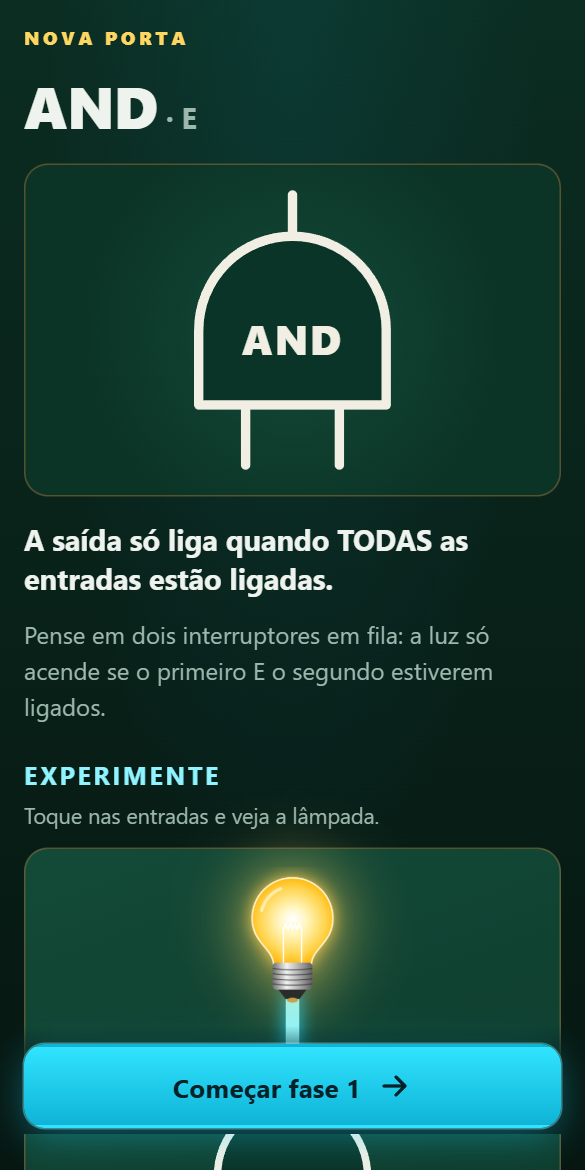
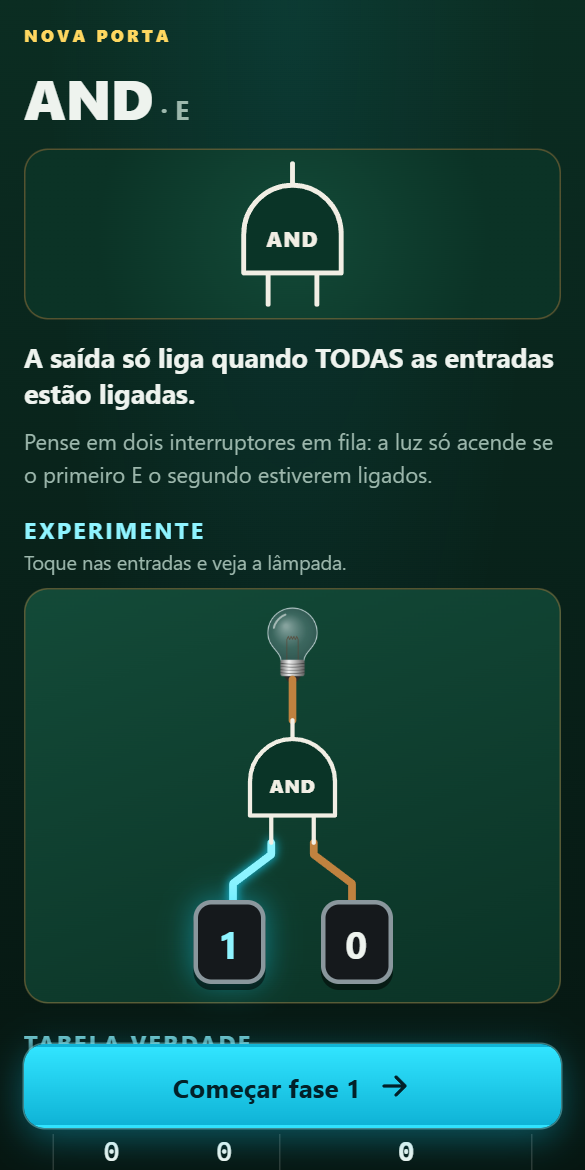
Documenta o modo Expert no README e atualiza as capturas
- Nova seção "Modo Expert": como liberar, como se joga, regras e o
  motivo de cada uma, com capturas do aviso de liberação e de uma vida
  queimada.
- Captura da introdução refeita com o novo tamanho; seção de arte e sons
  atualizada para os MP3 já incluídos.

diff --git a/README.md b/README.md
@@ -10,6 +10,7 @@ Um jogo de navegador gratuito que ensina portas lógicas para quem está começa
 
 ![Deploy](https://github.com/tclaro/logicGates/actions/workflows/deploy.yml/badge.svg)
 ![Fases](https://img.shields.io/badge/fases-36-18d8ff)
+![Modos](https://img.shields.io/badge/modos-normal%20%C2%B7%20Expert-ff9a3c)
 ![Portas](https://img.shields.io/badge/portas-AND%20%C2%B7%20OR%20%C2%B7%20NOT%20%C2%B7%20NAND%20%C2%B7%20NOR%20%C2%B7%20XOR%20%C2%B7%20XNOR-ffd760)
 ![Idioma](https://img.shields.io/badge/idioma-pt--BR-0c4031)
 
@@ -29,7 +30,8 @@ O jogo foi pensado para:
 
 - **Iniciantes de qualquer idade:** de crianças curiosas a estudantes do primeiro semestre de computação.
 - **Aula e estudo individual:** o professor pode projetar o jogo em sala; o aluno pode jogar sozinho no celular.
-- **Aprender sem medo de errar:** não há pontuação, tempo nem vidas. Errar é só mudar uma chave de volta.
+- **Aprender sem medo de errar:** no modo normal não há pontuação, tempo nem vidas. Errar é só mudar uma chave de volta.
+- **Desafiar quem já aprendeu:** o [modo Expert](#-modo-expert) esconde a energia e cobra que o aluno preveja o resultado antes de testar.
 
 ### O que o aluno aprende
 
@@ -40,14 +42,14 @@ O jogo foi pensado para:
 | Raciocinar sobre circuitos com várias portas encadeadas | As fases crescem de 1 para 11 portas, com até 5 níveis de profundidade |
 | Ler as notações usadas em matemática e programação | Cada porta é apresentada também como `A ∧ B`, `A && B`, `¬A`, `A ⊕ B`, `A ^ B`… |
 | Pensar "de trás para frente", partindo do resultado desejado | Para acender a lâmpada, é preciso descobrir o que cada porta precisa receber |
+| Simular um circuito de cabeça, sem tentativa e erro | No modo Expert a energia fica escondida e cada palpite errado custa uma vida |
 
 ## 🧭 Como funciona
 
 1. **A lâmpada começa apagada.** O objetivo de toda fase é acendê-la.
 2. **O aluno alterna as chaves** na parte de baixo da tela entre `0` e `1`. Nem todas começam desligadas: às vezes é preciso desligar uma chave para a luz acender.
 3. **A energia corre pelas trilhas** da placa. Cada porta só reage quando o sinal chega nela, e assim o aluno vê o caminho que a informação percorre.
-4. **Modo Expert:** depois de concluir a fase 10, o aluno pode jogar sem ver a energia. Ele monta as chaves, toca em **Ativar** e só então a energia corre. Cada erro queima uma das 3 lâmpadas de vida; perdendo as 3, volta ao início do capítulo. As fases seguem em sequência e as vidas se renovam a cada fase vencida.
-5. **Antes de cada porta nova**, uma tela apresenta o símbolo, uma analogia do dia a dia, uma mini demonstração interativa, a tabela verdade e as outras formas de escrever a porta.
+4. **Antes de cada porta nova**, uma tela apresenta o símbolo, uma analogia do dia a dia, uma mini demonstração interativa, a tabela verdade e as outras formas de escrever a porta.
 
 <div align="center">
 
@@ -56,6 +58,41 @@ O jogo foi pensado para:
 | <img src="docs/screenshots/intro.png" width="240" alt="Tela de introdução da porta AND"> | <img src="docs/screenshots/tabela-verdade.png" width="240" alt="Balão com a tabela verdade da porta NAND"> | <img src="docs/screenshots/vitoria.png" width="240" alt="Lâmpada acesa e tela de vitória"> |
 
 </div>
+
+## ⚡ Modo Expert
+
+No modo normal, o aluno pode testar chaves até a lâmpada acender, vendo a energia em cada trilha. O modo Expert tira essa muleta: **a energia fica escondida e o aluno precisa simular o circuito de cabeça** antes de testar. É a forma de verificar se as portas foram realmente entendidas, e não só descobertas por tentativa.
+
+<div align="center">
+
+| Aviso ao liberar o modo | Um palpite errado queima uma vida |
+|:---:|:---:|
+| <img src="docs/screenshots/expert-liberado.png" width="240" alt="Cartão de vitória da fase 10 com o aviso Modo Expert liberado"> | <img src="docs/screenshots/expert.png" width="240" alt="Fase 12 no modo Expert com uma das três lâmpadas de vida queimada"> |
+
+</div>
+
+### Como liberar
+
+O modo Expert aparece no menu principal com um cadeado até o aluno **concluir a fase 10** do modo normal. Nesse ponto ele já conhece AND, OR e NOT. Ao vencer a fase 10 pela primeira vez, o cartão de vitória mostra um aviso animado de que o modo foi liberado.
+
+### Como se joga
+
+1. **As trilhas ficam apagadas.** Mexer nas chaves não mostra nada: o aluno vê o desenho do circuito, mas não os valores.
+2. **O aluno monta as chaves e toca em Ativar** (ou aperta `Enter`). Só então a energia corre pela placa, porta por porta, como no modo normal.
+3. **Se a lâmpada acender**, a fase está vencida e o aluno segue para a próxima.
+4. **Se não acender**, uma das **3 lâmpadas de vida** (no canto superior direito da placa) queima. A energia continua visível, para o aluno entender onde errou. Para tentar de novo, ele muda alguma chave, o que apaga a placa outra vez, e toca em Ativar.
+5. **Se as 3 lâmpadas queimarem**, a partida acaba e o aluno recomeça do **início do capítulo** atual, ou seja, da fase em que a última porta nova foi apresentada (1, 2, 6, 11, 16, 21 ou 27).
+
+### Regras
+
+| Regra | Por quê |
+|---|---|
+| Cada partida começa na fase 1 e as fases seguem em sequência, sem escolha | O modo é uma prova do percurso inteiro |
+| As 3 vidas se renovam a cada fase vencida | Um erro numa fase não pesa sobre as seguintes |
+| Sair para o menu encerra a partida | A próxima começa de novo na fase 1 |
+| Tocar numa porta mostra a tabela verdade **sem** destacar a linha atual | Destacar a linha revelaria os valores que o modo esconde |
+| A apresentação de uma porta só aparece se o aluno ainda não a viu | Quem chegou até aqui já passou pelas apresentações no modo normal |
+| O menu mostra o recorde: a fase mais alta vencida no modo Expert | Dá ao aluno uma meta para superar |
 
 ## 🪜 Progressão das fases
 
@@ -86,7 +123,7 @@ A dificuldade é verificada automaticamente: cada fase passa por um validador qu
 - **Progresso salvo no próprio aparelho:** as fases são liberadas em sequência, e as já vencidas podem ser jogadas de novo.
 - **Glossário sempre à mão:** o aluno pode rever a explicação de qualquer porta que já apareceu.
 - **Som ajustável a qualquer momento:** durante a fase, o botão de alto-falante liga e desliga os efeitos e a música, e o botão da casinha volta ao menu principal.
-- **Modo Expert para revisão:** sem ver a energia, o aluno precisa prever o resultado do circuito antes de ativá-lo. É um bom teste depois que as portas já foram aprendidas.
+- **Modo Expert para revisão:** sem ver a energia, o aluno precisa prever o resultado do circuito antes de ativá-lo. Funciona bem como avaliação ou desafio em sala: o recorde de cada aluno aparece no menu. Veja [Modo Expert](#-modo-expert).
 - **Atalhos de teclado** para usar com projetor: teclas `1` a `8` alternam as chaves, `R` reinicia a fase, `Enter` ativa no modo Expert e `Esc` fecha a tabela verdade.
 - **Editor de fases:** quem rodar o projeto localmente pode criar fases novas com um editor visual (veja abaixo).
 
@@ -126,7 +163,8 @@ npm run build
 | `src/levels/chapters.ts` | Em que fase cada porta é apresentada |
 | `src/layout` | Layout automático em camadas e roteamento das trilhas em 0°, 45° e 90° |
 | `src/render` | A placa: trilhas, brilho, portas, lâmpada, chaves e a propagação animada |
-| `src/ui` | Menu, seleção de fases, introduções, glossário, HUD e tabela verdade |
+| `src/ui` | Menu, seleção de fases, introduções, glossário, HUD, tabela verdade e modo Expert (vidas e botão Ativar) |
+| `src/storage/progress.ts` | Progresso salvo no `localStorage`: fases concluídas, portas vistas, som e recorde do Expert |
 | `src/i18n/pt-BR.json` | Todos os textos do jogo, prontos para tradução |
 | `editor/` | Editor visual de fases |
 
@@ -162,7 +200,7 @@ LEVEL_REPORT=1 npx vitest run tests/unit/levels.test.ts --silent=false
 
 ### Arte e sons
 
-O jogo funciona com arte e sons provisórios gerados por código. Para personalizar, coloque arquivos com estes nomes nas pastas indicadas:
+Os sons e a música já estão incluídos; a arte da placa ainda é desenhada por código. Para personalizar, coloque arquivos com estes nomes nas pastas indicadas. Arquivos ausentes são substituídos por versões geradas por código, sem erro.
 
 **`public/assets/sprites/`** (PNG com fundo transparente)
 
@@ -177,7 +215,7 @@ O jogo funciona com arte e sons provisórios gerados por código. Para personali
 | Arquivo | Quando toca |
 |---|---|
 | `switch_on.mp3` / `switch_off.mp3` | Chave ligada / desligada |
-| `energize.mp3` | Modo Expert: botão Ativar |
+| `energize.mp3` | Modo Expert: botão Ativar (ainda sintetizado) |
 | `lamp_on.mp3` | Lâmpada acende |
 | `win.mp3` | Fase concluída |
 | `ui_click.mp3` | Botões das telas |
